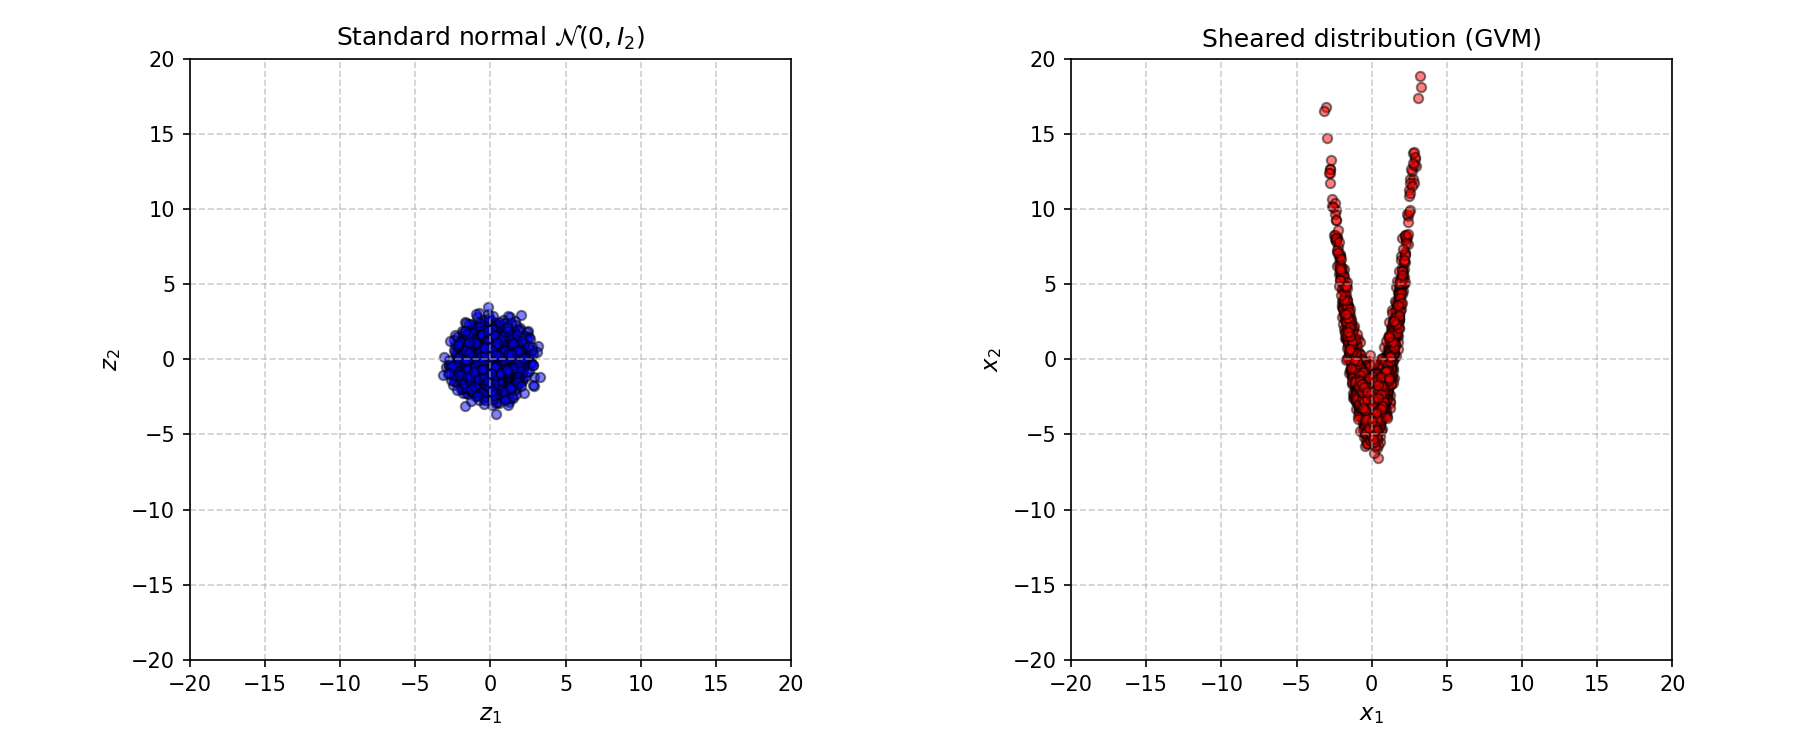
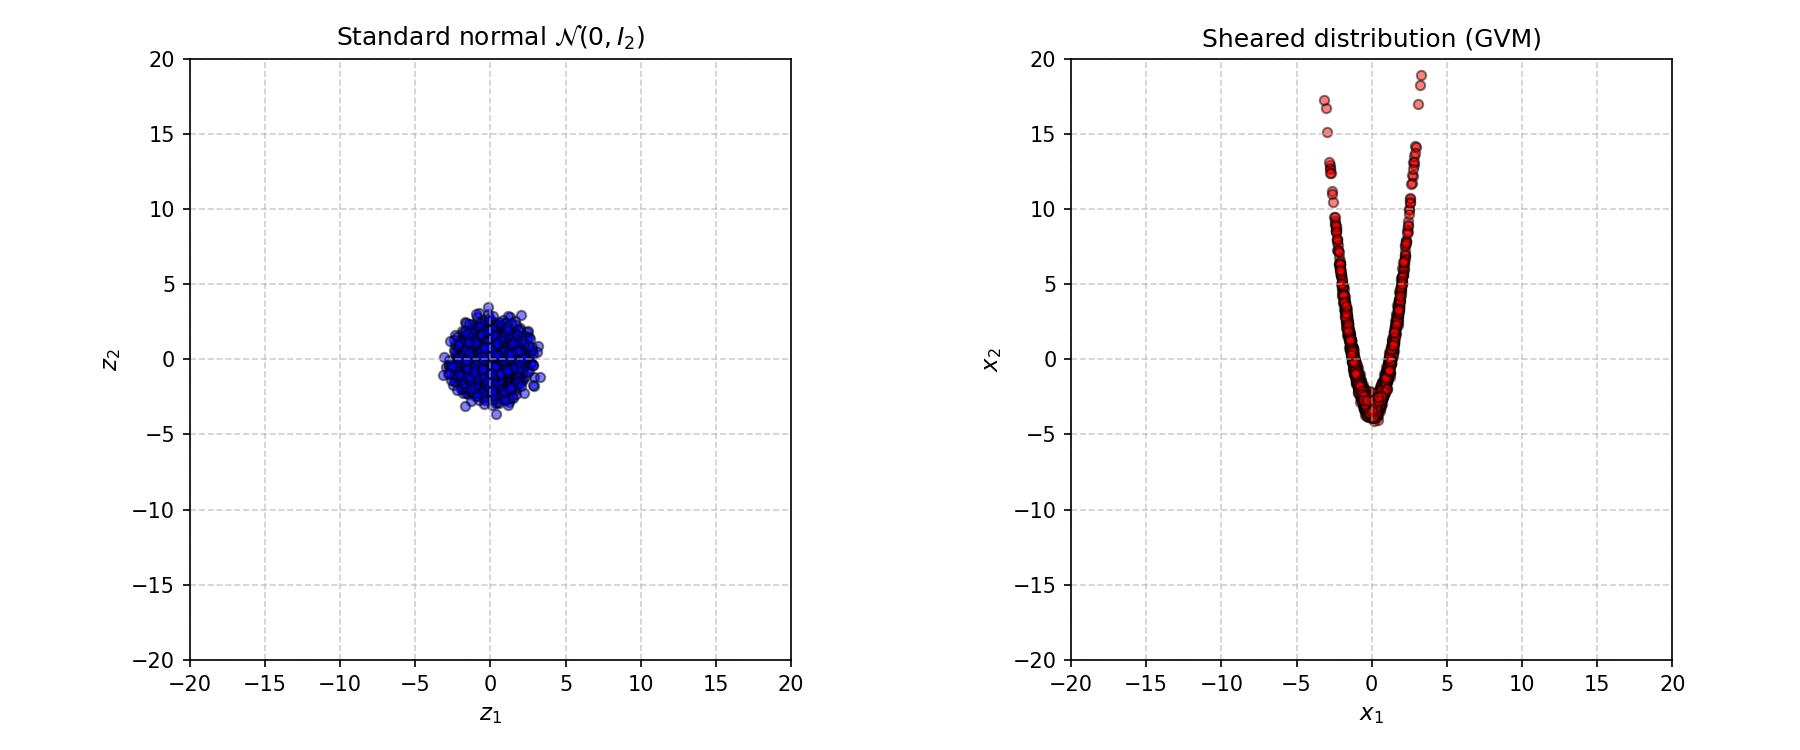
fix gvm implementation by moving from a simple shear to probability integral transform on phase coordinate (zeta[:,1]):

Changed region(s): [[0.7156, 0.184, 0.8089, 0.6133], [0.7778, 0.092, 0.8089, 0.1533], [0.7156, 0.1227, 0.7467, 0.1533]]

diff --git a/utils/data_generator.py b/utils/data_generator.py
@@ -2,6 +2,7 @@ from abc import ABC, abstractmethod
 from typing import Callable
 
 import numpy as np
+import scipy.stats
 
 
 class ShearFunction(ABC):
@@ -16,41 +17,31 @@ class ShearFunction(ABC):
 
 
 class BoomerangShearFunction(ShearFunction):
-    """Classic crescent/boomerang shear: x1^2 added to x2."""
-
-    def shear(self, zeta: np.ndarray) -> np.ndarray:
-        return zeta[:, 0] ** 2
-
-
-class RoughLineShearFunction(ShearFunction):
-    """Approximately linear shear around y = x with tunable spread."""
-
-    def __init__(self, sigma: float = 0.15) -> None:
-        self.sigma = float(sigma)
-
-    def shear(self, zeta: np.ndarray) -> np.ndarray:
-        return zeta[:, 0] - (1.0 - self.sigma) * zeta[:, 1]
-
-
-class GVMShearFunction(ShearFunction):
-    """Quadratic GVM shear, parameterised for robust n-dimensional use."""
+    """Quadratic linking shear with robust n-dimensional padding."""
 
     def __init__(
         self,
-        alpha: float,
-        beta: np.ndarray,
-        gamma: np.ndarray,
+        alpha: float = 0.0,
+        beta: np.ndarray | None = None,
+        gamma: np.ndarray | None = None,
     ) -> None:
         self.alpha = float(alpha)
-        self.beta = np.asarray(beta, dtype=float).reshape(-1)
-        gamma_array = np.asarray(gamma, dtype=float)
-        if gamma_array.ndim != 2:
-            raise ValueError("gamma must be a 2D array-like object.")
-        self.gamma = gamma_array
+        self.beta = (
+            np.asarray(beta, dtype=float).reshape(-1)
+            if beta is not None
+            else np.zeros(2, dtype=float)
+        )
+        if gamma is None:
+            self.gamma = np.array([[2.0, 0.0], [0.0, 0.0]], dtype=float)
+        else:
+            gamma_array = np.asarray(gamma, dtype=float)
+            if gamma_array.ndim != 2:
+                raise ValueError("gamma must be a 2D array-like object.")
+            self.gamma = gamma_array
 
     @staticmethod
     def _resolved_beta(beta: np.ndarray, num_dimensions: int) -> np.ndarray:
-        """Normalise beta shape against ambient dimension and disable self-shear on index 1."""
+        """Normalise beta to ambient dimension and disable index-1 self-shear."""
         resolved = np.zeros(num_dimensions, dtype=float)
         upper = min(beta.size, num_dimensions)
         if upper > 0:
@@ -61,7 +52,7 @@ class GVMShearFunction(ShearFunction):
 
     @staticmethod
     def _resolved_gamma(gamma: np.ndarray, num_dimensions: int) -> np.ndarray:
-        """Normalise gamma shape against ambient dimension and disable index-1 self-coupling."""
+        """Normalise gamma to ambient dimension and disable index-1 self-coupling."""
         resolved = np.zeros((num_dimensions, num_dimensions), dtype=float)
         rows = min(gamma.shape[0], num_dimensions)
         cols = min(gamma.shape[1], num_dimensions)
@@ -72,15 +63,30 @@ class GVMShearFunction(ShearFunction):
             resolved[:, 1] = 0.0
         return resolved
 
-    def shear(self, zeta: np.ndarray) -> np.ndarray:
-        """Compute per-particle shear from alpha + beta^T z + 0.5 * z^T gamma z."""
-        num_dimensions = int(zeta.shape[1])
-        beta = self._resolved_beta(self.beta, num_dimensions)
-        gamma = self._resolved_gamma(self.gamma, num_dimensions)
+    def resolved_parameters(self, num_dimensions: int) -> tuple[np.ndarray, np.ndarray]:
+        """Return beta and gamma padded/truncated to the current dimension."""
+        return (
+            self._resolved_beta(self.beta, num_dimensions),
+            self._resolved_gamma(self.gamma, num_dimensions),
+        )
 
+    def shear(self, zeta: np.ndarray) -> np.ndarray:
+        """Compute alpha + zeta beta + 0.5 * diag(zeta gamma zeta^T)."""
+        num_dimensions = int(zeta.shape[1])
+        beta, gamma = self.resolved_parameters(num_dimensions)
         linear_term = zeta @ beta
         quadratic_term = np.einsum("bi,ij,bj->b", zeta, gamma, zeta)
         return self.alpha + linear_term + 0.5 * quadratic_term
+
+
+class RoughLineShearFunction(ShearFunction):
+    """Approximately linear shear around y = x with tunable spread."""
+
+    def __init__(self, sigma: float = 0.15) -> None:
+        self.sigma = float(sigma)
+
+    def shear(self, zeta: np.ndarray) -> np.ndarray:
+        return zeta[:, 0] - (1.0 - self.sigma) * zeta[:, 1]
 
 
 class DataGenerator:
@@ -116,6 +122,33 @@ class DataGenerator:
                 "shear_function must return one scalar shear value per particle."
             )
         z[:, 1] = zeta[:, 1] + shear_values
+        return z
+
+
+class GVMDataGenerator(DataGenerator):
+    """Generate true GVM samples by Gaussian-to-von-Mises transport."""
+
+    def __init__(
+        self,
+        alpha: float,
+        beta: np.ndarray,
+        gamma: np.ndarray,
+        kappa: float,
+    ) -> None:
+        self.linking_function = BoomerangShearFunction(
+            alpha=alpha,
+            beta=beta,
+            gamma=gamma,
+        )
+        self.kappa = float(kappa)
+        super().__init__(shear_function=self.linking_function)
+
+    def _apply_shear(self, zeta: np.ndarray) -> np.ndarray:
+        """Apply the exact PIT map from Gaussian phase to von Mises phase."""
+        z = zeta.copy()
+        theta_loc = self.linking_function.shear(zeta)
+        u = scipy.stats.norm.cdf(zeta[:, 1])
+        z[:, 1] = scipy.stats.vonmises.ppf(u, self.kappa, loc=theta_loc)
         return z
 
 def generate_crescent_data_nd(

diff --git a/experiments/kr_map_experiment.py b/experiments/kr_map_experiment.py
@@ -17,7 +17,7 @@ from utils import DykstraPlotter, DistributionPlotter
 from utils import (
     BoomerangShearFunction,
     DataGenerator,
-    GVMShearFunction,
+    GVMDataGenerator,
     RoughLineShearFunction,
 )
 from utils import Basis, HermiteBasis, KRMap
@@ -886,10 +886,10 @@ if __name__ == "__main__":
         if PLOT_DISTRIBUTIONS else None
 
     # SEED = int(time.time() * 1000) % 1000000
-    SEED: int = 1
+    SEED: int = 1111
 
     NUM_DIMENSIONS: int = 2
-    NUM_PARTICLES: int = 2500
+    NUM_PARTICLES: int = 200
 
     MAX_OUTER_ITER: int = 10000
     DYKSTRA_KWARGS: dict = {"track_error": False}
@@ -897,13 +897,13 @@ if __name__ == "__main__":
     L1_REG: float = 0.0
 
     # Inexact projection: Inner iters = BASE_INNER_ITER * (outer_iter ** INEXACT_POWER)
-    BASE_INNER_ITER: int = 10
-    MAX_INNER_ITERS: int = 100 # int(BASE_INNER_ITER * (MAX_OUTER_ITER ** INEXACT_POWER))
+    BASE_INNER_ITER: int = 1
+    MAX_INNER_ITERS: int = 10 # int(BASE_INNER_ITER * (MAX_OUTER_ITER ** INEXACT_POWER))
     INEXACT_POWER: float = np.log(MAX_INNER_ITERS / BASE_INNER_ITER) / np.log(MAX_OUTER_ITER) # 0 for fixed dykstra budget
     
     # SGD
     # BATCH_SIZE: int | None = None
-    BATCH_SIZE: int | None = 1000
+    BATCH_SIZE: int | None = None
     RNG_SEED: int | None = SEED + 1 \
         if BATCH_SIZE is not None else None # different seed
     LEARNING_RATE: float = 0.01
@@ -914,20 +914,25 @@ if __name__ == "__main__":
     PRUNE_THRESHOLD: float = 1e-2
     PRUNE_INTERVAL: int = 100
 
-    # Data
+    # Data generation
     GVM_ALPHA: float = -3.2
-    GVM_BETA: np.ndarray = np.array([0.0, 0.0])
-    GVM_GAMMA: np.ndarray = np.array([[4.2, 0.0], [0.0, 0.0]])
+    GVM_BETA: np.ndarray = np.array([0.0, 0.0], dtype=float)
+    GVM_GAMMA: np.ndarray = np.array([[4.2, 0.0], [0.0, 0.0]], dtype=float)
+    GVM_KAPPA: float = 12.0
+    LINE_SIGMA: float = 0.15
 
-    # SHEAR_FUNCTION_MODEL = BoomerangShearFunction()  # boomerang shear
-    # SHEAR_FUNCTION_MODEL = RoughLineShearFunction(sigma=0.15)  # rough line near y=x shear
-    SHEAR_FUNCTION_MODEL = GVMShearFunction(  # quadratic GVM shear
-        alpha=GVM_ALPHA,
-        beta=GVM_BETA,
-        gamma=GVM_GAMMA,
+    # DATA_GENERATOR = GVMDataGenerator(
+    #     alpha=GVM_ALPHA,
+    #     beta=GVM_BETA,
+    #     gamma=GVM_GAMMA,
+    #     kappa=GVM_KAPPA,
+    # )
+    # DATA_GENERATOR = DataGenerator(
+    #     shear_function=BoomerangShearFunction(),  # classic boomerang: x_1^2 added to x_2
+    # )
+    DATA_GENERATOR = DataGenerator(
+        shear_function=RoughLineShearFunction(sigma=LINE_SIGMA),  # line-like shear near y = x
     )
-
-    DATA_GENERATOR = DataGenerator(shear_function=SHEAR_FUNCTION_MODEL)
     DEGREE: int = 2
     BASIS: Basis = HermiteBasis()
     KR_MAP: KRMap = KRMap(

diff --git a/tests/data_generation.py b/tests/data_generation.py
@@ -9,7 +9,7 @@ from utils import DistributionPlotter
 from utils import (
     BoomerangShearFunction,
     DataGenerator,
-    GVMShearFunction,
+    GVMDataGenerator,
     RoughLineShearFunction,
 )
 
@@ -21,31 +21,31 @@ if __name__ == "__main__":
     DISTRIBUTION_XLIM: tuple[float, float] | None = (-PLOT_SIZE, PLOT_SIZE)
     DISTRIBUTION_YLIM: tuple[float, float] | None = (-PLOT_SIZE, PLOT_SIZE)
 
-    # Line
-    SIGMA = 0.15
-
     # GVM tuned to resemble the paper's last-row thin, stretched U-shape (panels e/f)
     GVM_ALPHA = -3.2
     GVM_BETA = np.array([0.0, 0.0], dtype=float)
     GVM_GAMMA = np.array([[4.2, 0.0], [0.0, 0.0]], dtype=float)
+    GVM_KAPPA = 12.0
+    LINE_SIGMA = 0.15
 
-    # SHEAR_FUNCTION_MODEL = BoomerangShearFunction()  # boomerang shear
-
-    # SHEAR_FUNCTION_MODEL = RoughLineShearFunction(sigma=SIGMA)  # rough line near y=x shear
-
-    SHEAR_FUNCTION_MODEL = GVMShearFunction(  # quadratic GVM shear
+    generator = GVMDataGenerator(
         alpha=GVM_ALPHA,
         beta=GVM_BETA,
         gamma=GVM_GAMMA,
+        kappa=GVM_KAPPA,
     )
-
-    generator = DataGenerator(shear_function=SHEAR_FUNCTION_MODEL)
+    # generator = DataGenerator(
+    #     shear_function=BoomerangShearFunction(),  # classic boomerang: x_1^2 added to x_2
+    # )
+    # generator = DataGenerator(
+    #     shear_function=RoughLineShearFunction(sigma=LINE_SIGMA),  # line-like shear near y = x
+    # )
     reference_particles, sheared_particles = generator.generate(
         num_particles=M,
         num_dimensions=NUM_DIMENSIONS,
         seed=SEED,
     )
-    shear_label = type(SHEAR_FUNCTION_MODEL).__name__.replace("ShearFunction", "")
+    shear_label = type(generator).__name__.replace("DataGenerator", "")
 
     out_dir = os.path.join(os.path.dirname(__file__), "..", "results", "data_generation")
     plotter = DistributionPlotter(output_dir=out_dir)

diff --git a/tests/test_end_to_end_kr1d.py b/tests/test_end_to_end_kr1d.py
@@ -13,7 +13,6 @@ from utils import HermiteBasis, KRMap1D
 from utils import ProjectedGradientDescent
 from utils import DykstraPlotter
 from utils import (
-    BoomerangShearFunction,
     DataGenerator,
     DykstraProjectionSolver,
     DykstraStallDetectionSolver,
@@ -34,7 +33,7 @@ def test_dykstra_fast_forward_advantage() -> None:
     # Step 1 – Data
     num_particles: int = 500
     seed: int = 42
-    generator = DataGenerator(shear_function=BoomerangShearFunction())
+    generator = DataGenerator()
     _, z = generator.generate(num_particles=num_particles, num_dimensions=2, seed=seed)
     z1: np.ndarray = z[:, 0]
 
@@ -50,7 +49,7 @@ def test_dykstra_fast_forward_advantage() -> None:
     w_init: np.ndarray = np.array([-10., 10., 10., -10.5])
 
     learning_rate: float = 0.01
-    max_outer_iter: int = 20
+    max_outer_iter: int = 5
     dykstra_kwargs: dict = {"track_error": False}
     plot_outer_iterations: list[int] | None = [0, 1, 2, 4]
 

diff --git a/tests/assemble_map.py b/tests/assemble_map.py
@@ -8,7 +8,6 @@ sys.path.insert(0, os.path.abspath(os.path.join(os.path.dirname(__file__), "..")
 
 from utils import DataGenerator
 from utils import DistributionPlotter
-from utils import BoomerangShearFunction
 from utils import HermiteBasis
 from utils import KRMap
 
@@ -53,7 +52,7 @@ def _run_single_reconstruction(
 
 def run_assembly_map_test() -> dict[str, dict[str, np.ndarray]]:
 	"""Run map reconstruction benchmarks using module-level configuration."""
-	data_generator = DataGenerator(shear_function=SHEAR_FUNCTION_MODEL)
+	data_generator = DataGenerator()
 	normal_samples, synthetic_samples = data_generator.generate(
 		num_particles=NUM_PARTICLES,
 		num_dimensions=NUM_DIMENSIONS,
@@ -100,8 +99,6 @@ def run_assembly_map_test() -> dict[str, dict[str, np.ndarray]]:
 
 
 if __name__ == "__main__":
-	SHEAR_FUNCTION_MODEL = BoomerangShearFunction()  # boomerang shear
-
 	SEED = 42
 	NUM_PARTICLES = 1000
 	NUM_DIMENSIONS = 2

diff --git a/utils/__init__.py b/utils/__init__.py
@@ -8,7 +8,7 @@ from .projection_solver import (
 from .data_generator import (
     BoomerangShearFunction,
     DataGenerator,
-    GVMShearFunction,
+    GVMDataGenerator,
     RoughLineShearFunction,
     generate_crescent_data_nd,
 )
